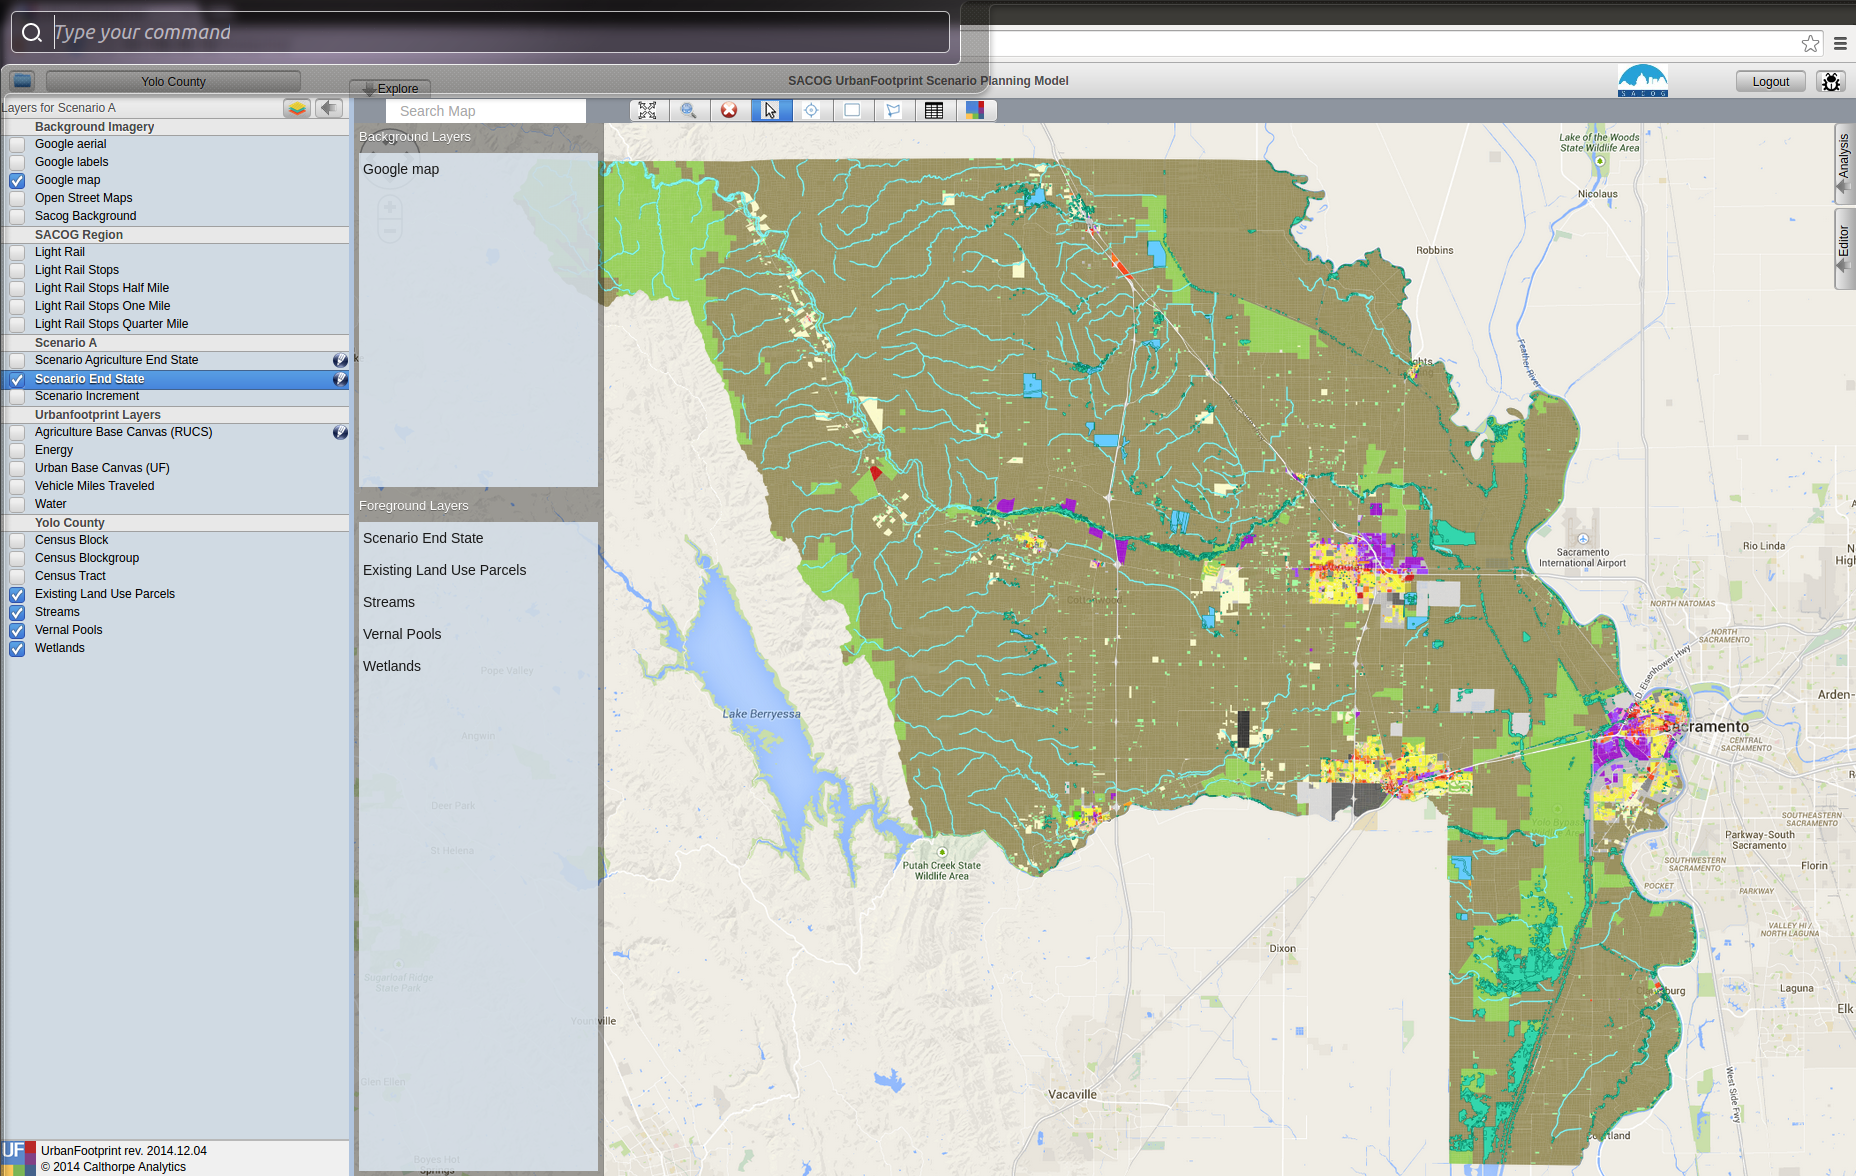
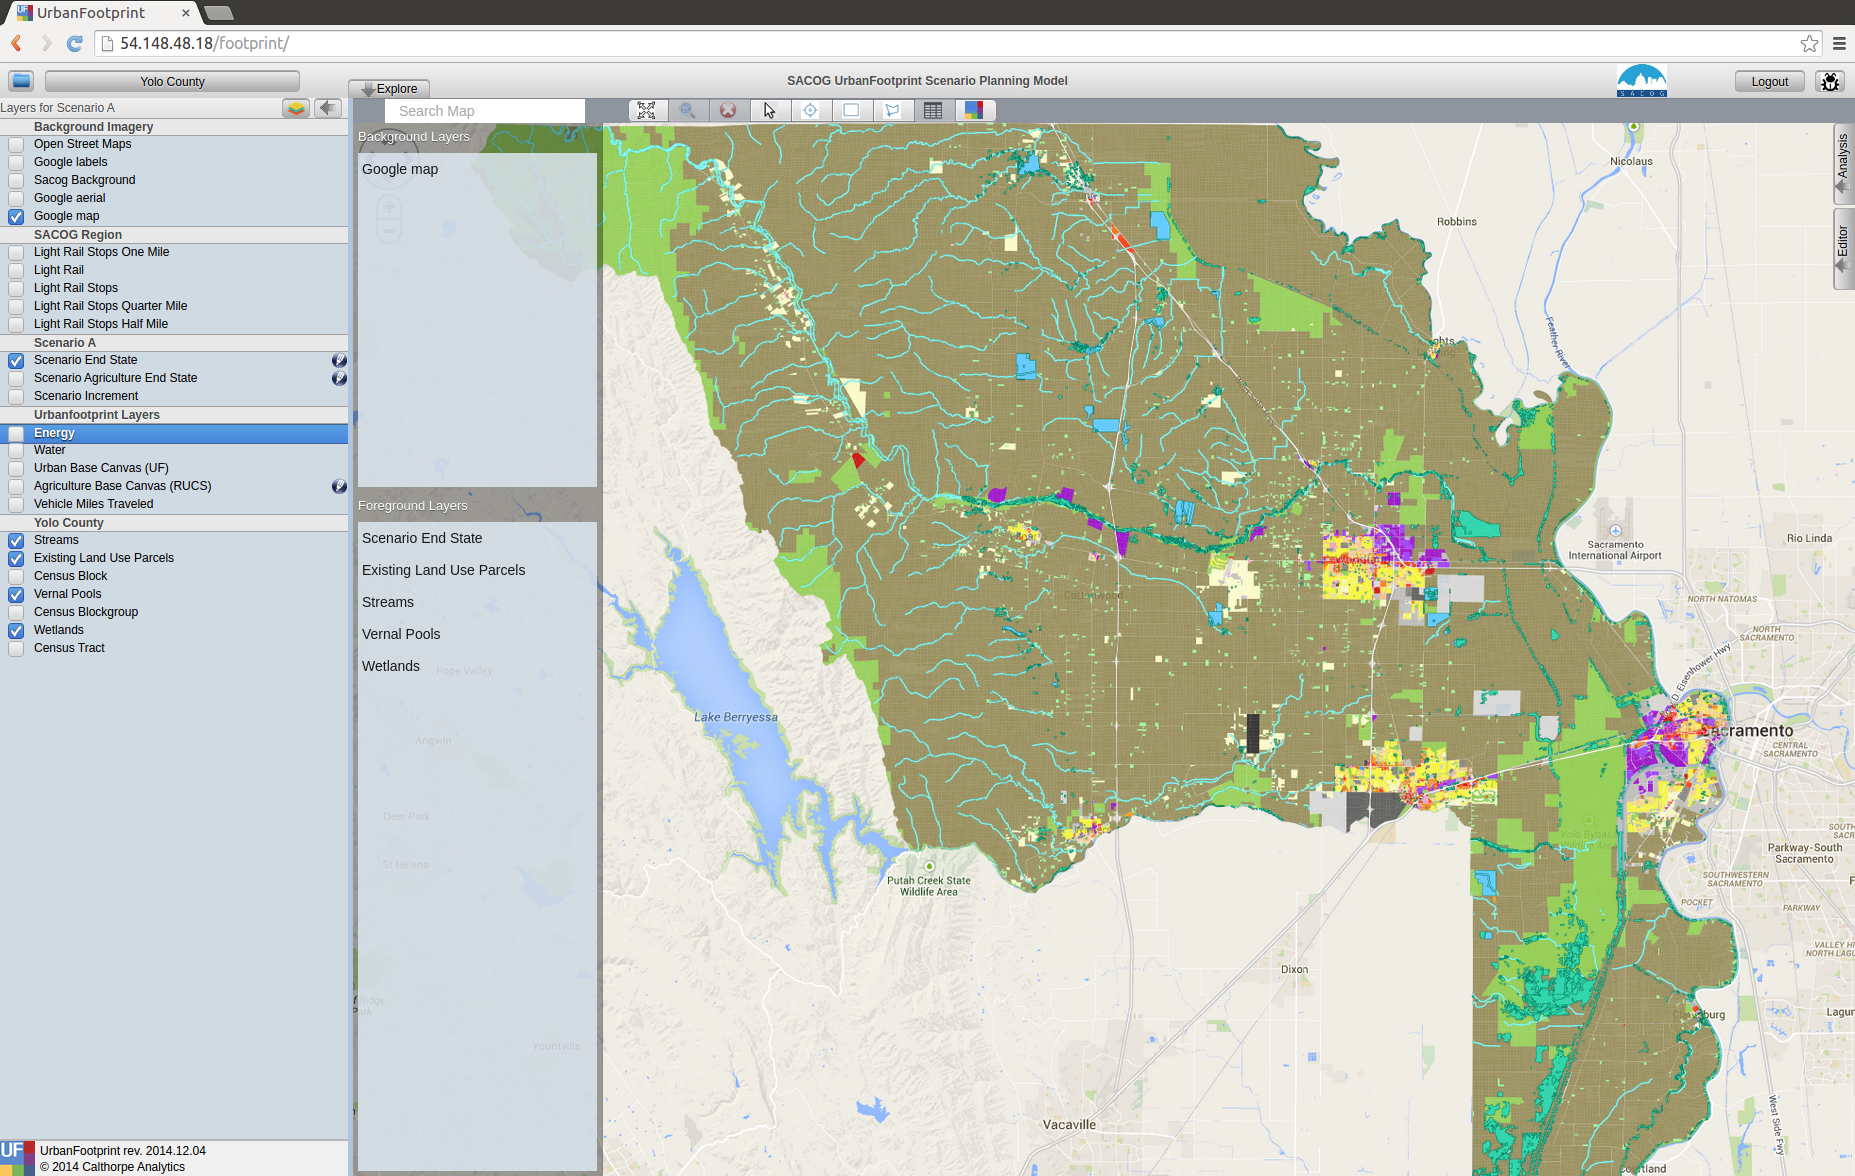
more improvements to ufintro with updated graphics. Note tha the acres seems to be off in the base dataset.

diff --git a/ufintro.rst b/ufintro.rst
@@ -238,21 +238,24 @@ ________________________
 Scenario Management
 +++++++++++++++++++
 
-.. image:: graphics/ScenarioManagement.png
-
 * Switching between scenarios and the base condition
 * Quick summary of scenario population, dwelling units, and employment
 * Access to the menus for creating and deleting new scenarios
 
+
+.. image:: graphics/BaseCond_Explore.png
+
+
 Layer Management
 ++++++++++++++++
-
-ToDo: Fix this graphic
-.. image:: graphics/ScenarioA_LayerOrder.png
 
 * Turning layers on and off within your display.
 * Changing layer display options
 * Adding new layers
+
+.. image:: graphics/ScenarioA_LayerOrder.png
+
+
 
 Charts
 ++++++
@@ -269,12 +272,12 @@ The Map
 Analytical Engines
 ++++++++++++++++++
 
-.. image:: graphics/ScenarioA_Analysis.png
-
 * A wide range of analytical tools that have been built to work with UrbanFootprint.
 * Many are linked to each other meaning that outputs from the transportation analysis feed into the public health, criteria pollutant emissions, household costs, and greenhouse gas calculations.
 * At present most of these tools have to be run from command line on the server not through the User Interface (UI).
 * These analytical engines frequently require calibration to the local environment.
+
+.. image:: graphics/ScenarioA_Analysis.png
 
 
 Creating Scenarios
@@ -309,7 +312,7 @@ Discussion
 What are the Current Conditions?
 ________________________________
 
-.. image:: graphics/BeforeEdit.png
+.. image:: graphics/BaseCond_Explore.png
 
 Discussion
 ++++++++++
@@ -319,7 +322,13 @@ Discussion
 Translate the Goals onto the Map
 ________________________________
 
-.. image:: graphics/AfterEdit.png
+Before Editing
+
+.. image:: graphics/ScenarioA_BeforeEdit.png
+
+After Edit
+
+.. image:: graphics/ScenarioA_AfterEdit.png
 
 Discussion
 ++++++++++
